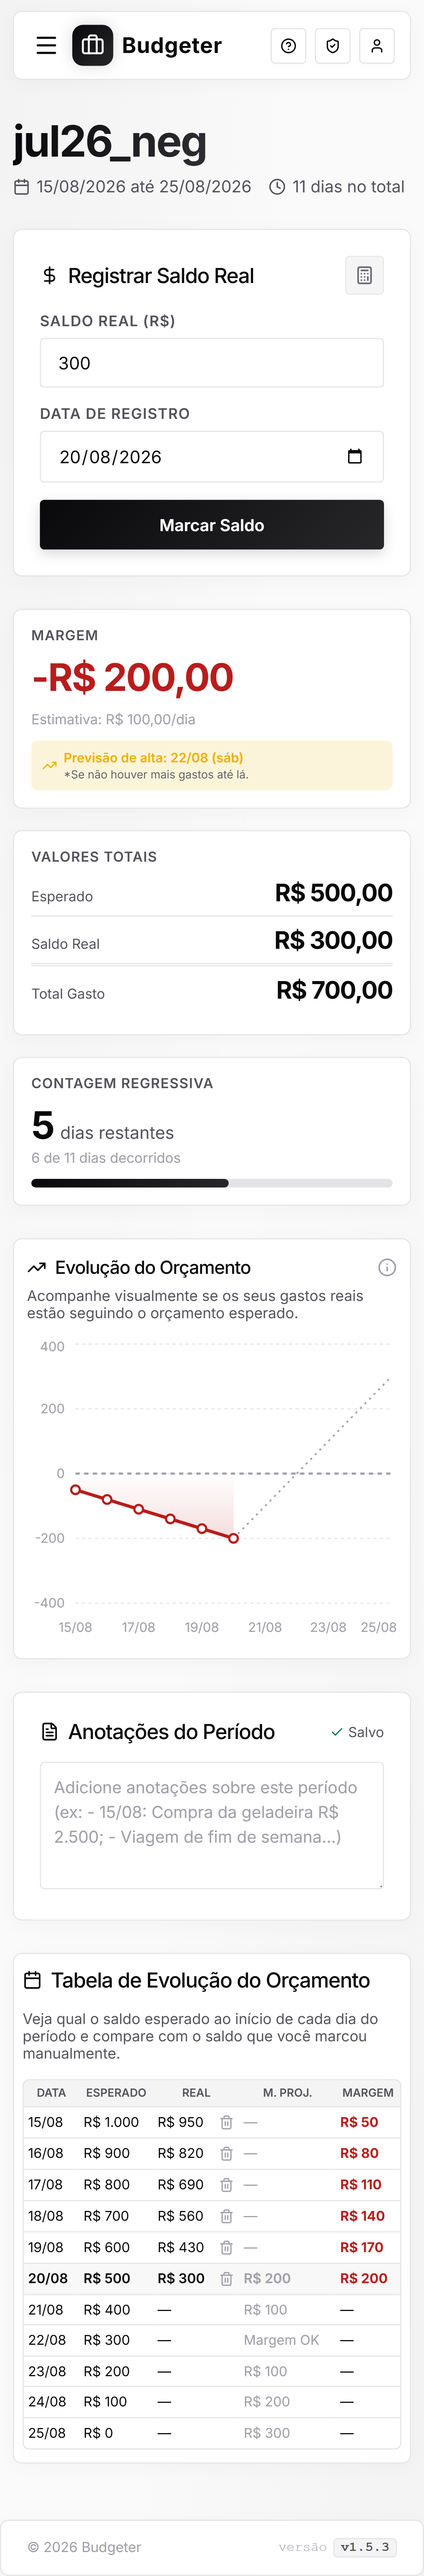
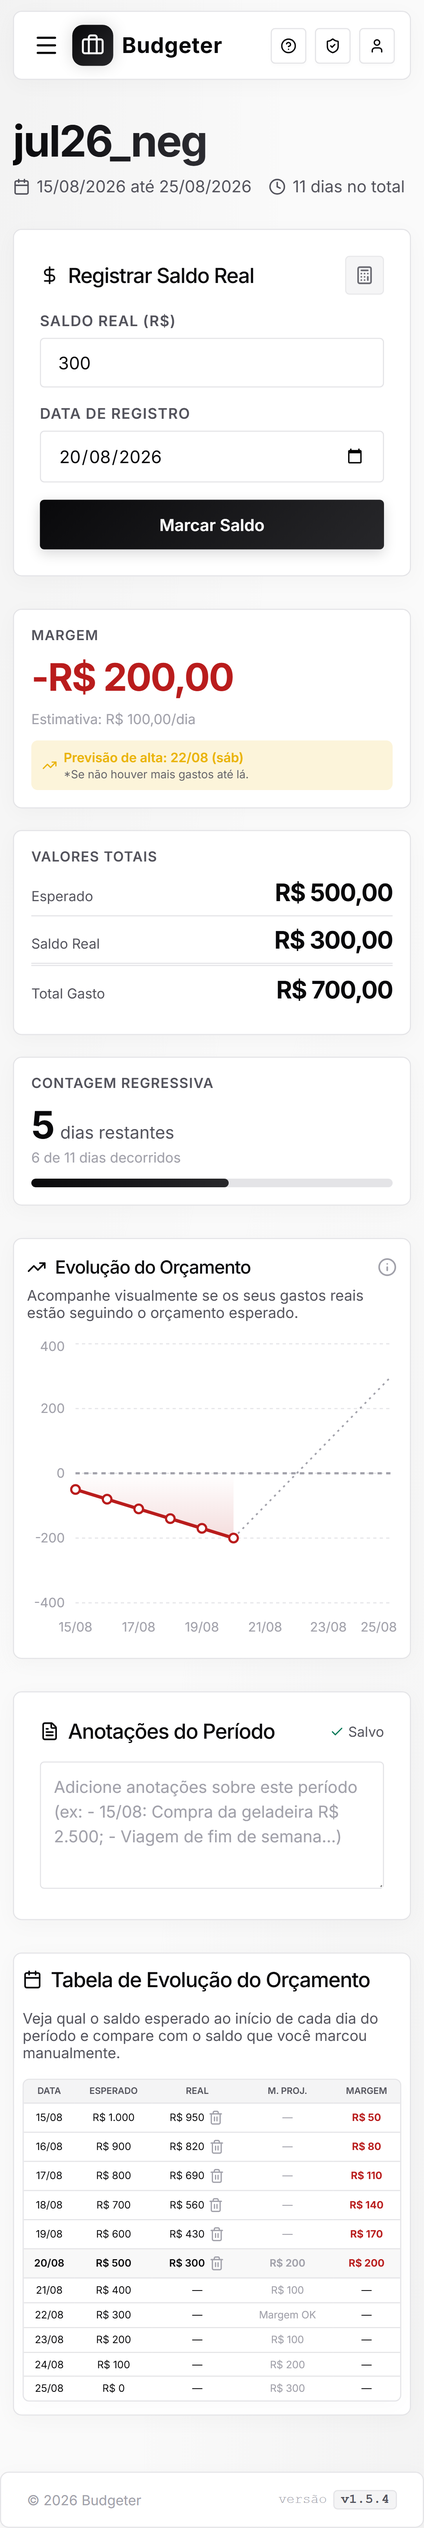
style: center table text horizontally and prevent line breaks on mobile (v1.5.5)

diff --git a/playwright-report/index.html b/playwright-report/index.html
@@ -87,4 +87,4 @@ Error generating stack: `+l.message+`
     <div id='root'></div>
   </body>
 </html>
[2 lines of base64/hex data omitted]

diff --git a/src/index.css b/src/index.css
@@ -559,29 +559,32 @@ h1, h2, h3, h4, .font-display {
   .budget-table {
     min-width: 0 !important;
     width: 100%;
-    font-size: 0.78rem;
+    font-size: clamp(0.55rem, 2.4vw, 0.72rem);
     table-layout: auto;
   }
 
   .budget-table th, .budget-table td {
-    padding: 6px 4px;
-    word-break: break-word;
-    overflow-wrap: anywhere;
+    padding: 5px 2px;
+    white-space: nowrap !important;
+    word-break: keep-all;
+    overflow-wrap: normal;
+    text-align: center;
   }
 
   .budget-table th {
     width: auto !important;
-    font-size: 0.65rem;
+    font-size: clamp(0.52rem, 2.1vw, 0.65rem);
     letter-spacing: 0;
     padding: 6px 2px;
     text-align: center;
     line-height: 1.15;
-    white-space: normal;
+    white-space: nowrap !important;
   }
 
   .budget-table td {
-    text-align: left;
+    text-align: center;
     line-height: 1.25;
+    white-space: nowrap !important;
   }
 
   .today-badge {
@@ -589,11 +592,14 @@ h1, h2, h3, h4, .font-display {
   }
 
   .table-recorded-cell {
-    gap: 2px !important;
+    justify-content: center !important;
+    gap: 3px !important;
+    white-space: nowrap !important;
   }
 
   .delete-balance-btn {
     padding: 1px !important;
+    flex-shrink: 0;
   }
 
   .app-header {

diff --git a/tests/mobile-table.spec.ts b/tests/mobile-table.spec.ts
@@ -39,9 +39,14 @@ test.describe('Tabela de Evolução em Telas Mobile e Desktop', () => {
     // scrollWidth deve ser igual ou muito próximo de clientWidth (tolerância de até 2px por conta de arredondamento de subpixel)
     expect(scrollWidth - clientWidth).toBeLessThanOrEqual(2);
 
-    // Verifica se as colunas estão visíveis
+    // Verifica se as colunas estão visíveis e possuem texto centralizado sem quebra de linha em mobile
     const ths = page.locator('.budget-table th');
     await expect(ths).toHaveCount(5);
+    const firstTd = page.locator('.budget-table td').first();
+    const textAlign = await firstTd.evaluate((el) => window.getComputedStyle(el).textAlign);
+    const whiteSpace = await firstTd.evaluate((el) => window.getComputedStyle(el).whiteSpace);
+    expect(textAlign).toBe('center');
+    expect(whiteSpace).toBe('nowrap');
   });
 
   test('deve manter o tamanho original da tabela em telas desktop', async ({ page }) => {
